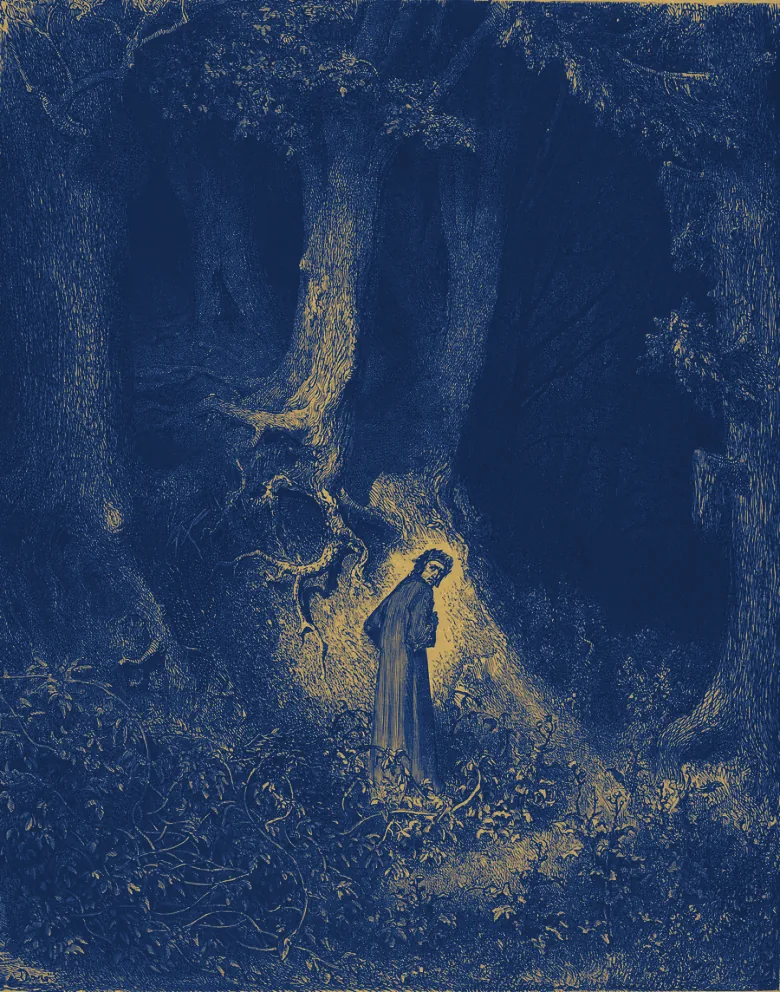
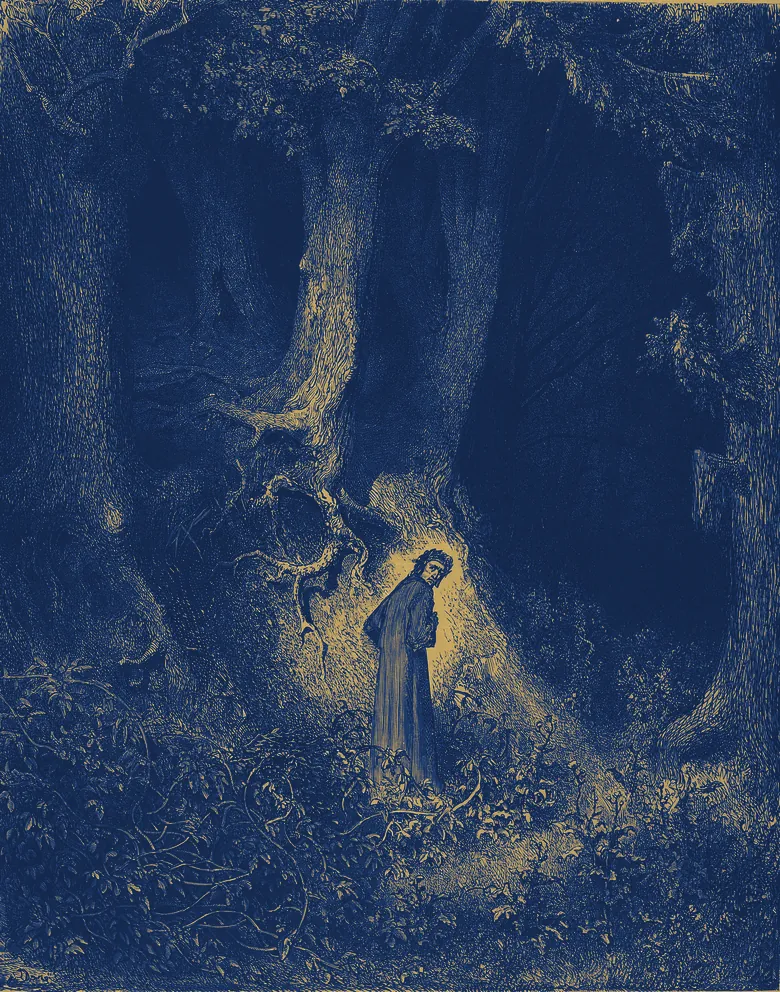
Restore the Doré plates to their pre-optimisation resolution
The engraving banner on /genres and /journal, and all six mosaic tiles,
were serving 900-1200px sources stretched across up to 100vw — soft on
any 1x display and badly under-resolved on retina. The srcSet's own top
descriptor matched the shrunk file honestly, so this wasn't the browser
picking wrong, the source itself was small.

Recovered the pre-09400f6 originals (1400-1800px) from git history,
reapplied the same crop fractions 802deeb used on witches-storm,
macbeth-cave and mystique-forest, and re-ran them through af4042d's
duotone ramp at that size instead of the shrunk one.

Weight stays where "Make the site work on a phone" put it: srcSet now
carries three tiers (780w / 1200w / native) instead of two, so a phone
still gets the same ~200-270KB sm file it always did — the new native
tier only reaches a device whose pixel density actually needs it.

diff --git a/app/genres/page.tsx b/app/genres/page.tsx
@@ -17,15 +17,18 @@ const tilePlate: Record<string, string> = {
   "mistyka-proza": "witches-storm",
 };
 
-/** Natural widths, needed for the srcSet descriptor: the plates are scans of
- * different sizes, and three were cropped in from their paper margins. */
+/** Native width of each plate's largest export, for the srcSet descriptor.
+ * Restored from the pre-optimisation scans in git history (2x–3x what the
+ * site had been serving) and re-cropped/re-duotoned at that size, so the
+ * banner and every tile have a real 1600–1800px source instead of the same
+ * ~900–1200px file stretched across a retina screen. */
 const plateWidth: Record<string, number> = {
-  "mystique-forest": 900,
-  "macbeth-cave": 1174,
-  bluebeard: 900,
-  "death-moon": 1200,
-  "fantasy-giant": 900,
-  "witches-storm": 1138,
+  "mystique-forest": 1600,
+  "macbeth-cave": 1761,
+  bluebeard: 1600,
+  "death-moon": 1400,
+  "fantasy-giant": 1600,
+  "witches-storm": 1707,
 };
 
 export const metadata = pageMeta(
@@ -52,7 +55,7 @@ export default function GenresPage() {
         <img
           className={styles.plateImg}
           src="/gravure/witches-storm.webp"
-          srcSet="/gravure/witches-storm-sm.webp 780w, /gravure/witches-storm.webp 1138w"
+          srcSet="/gravure/witches-storm-sm.webp 780w, /gravure/witches-storm-md.webp 1200w, /gravure/witches-storm.webp 1707w"
           sizes="100vw"
           alt=""
           aria-hidden="true"
@@ -77,7 +80,7 @@ export default function GenresPage() {
                 <img
                   className={styles.tilePlate}
                   src={`/gravure/${tilePlate[g.slug]}.webp`}
-                  srcSet={`/gravure/${tilePlate[g.slug]}-sm.webp 780w, /gravure/${tilePlate[g.slug]}.webp ${plateWidth[tilePlate[g.slug]]}w`}
+                  srcSet={`/gravure/${tilePlate[g.slug]}-sm.webp 780w, /gravure/${tilePlate[g.slug]}-md.webp 1200w, /gravure/${tilePlate[g.slug]}.webp ${plateWidth[tilePlate[g.slug]]}w`}
                   sizes="(max-width: 760px) 100vw, 50vw"
                   alt=""
                   aria-hidden="true"

diff --git a/app/journal/page.tsx b/app/journal/page.tsx
@@ -28,7 +28,7 @@ export default function JournalPage() {
         <img
           className={styles.plateImg}
           src="/gravure/macbeth-cave.webp"
-          srcSet="/gravure/macbeth-cave-sm.webp 780w, /gravure/macbeth-cave.webp 1174w"
+          srcSet="/gravure/macbeth-cave-sm.webp 780w, /gravure/macbeth-cave-md.webp 1200w, /gravure/macbeth-cave.webp 1761w"
           sizes="100vw"
           alt=""
           aria-hidden="true"
